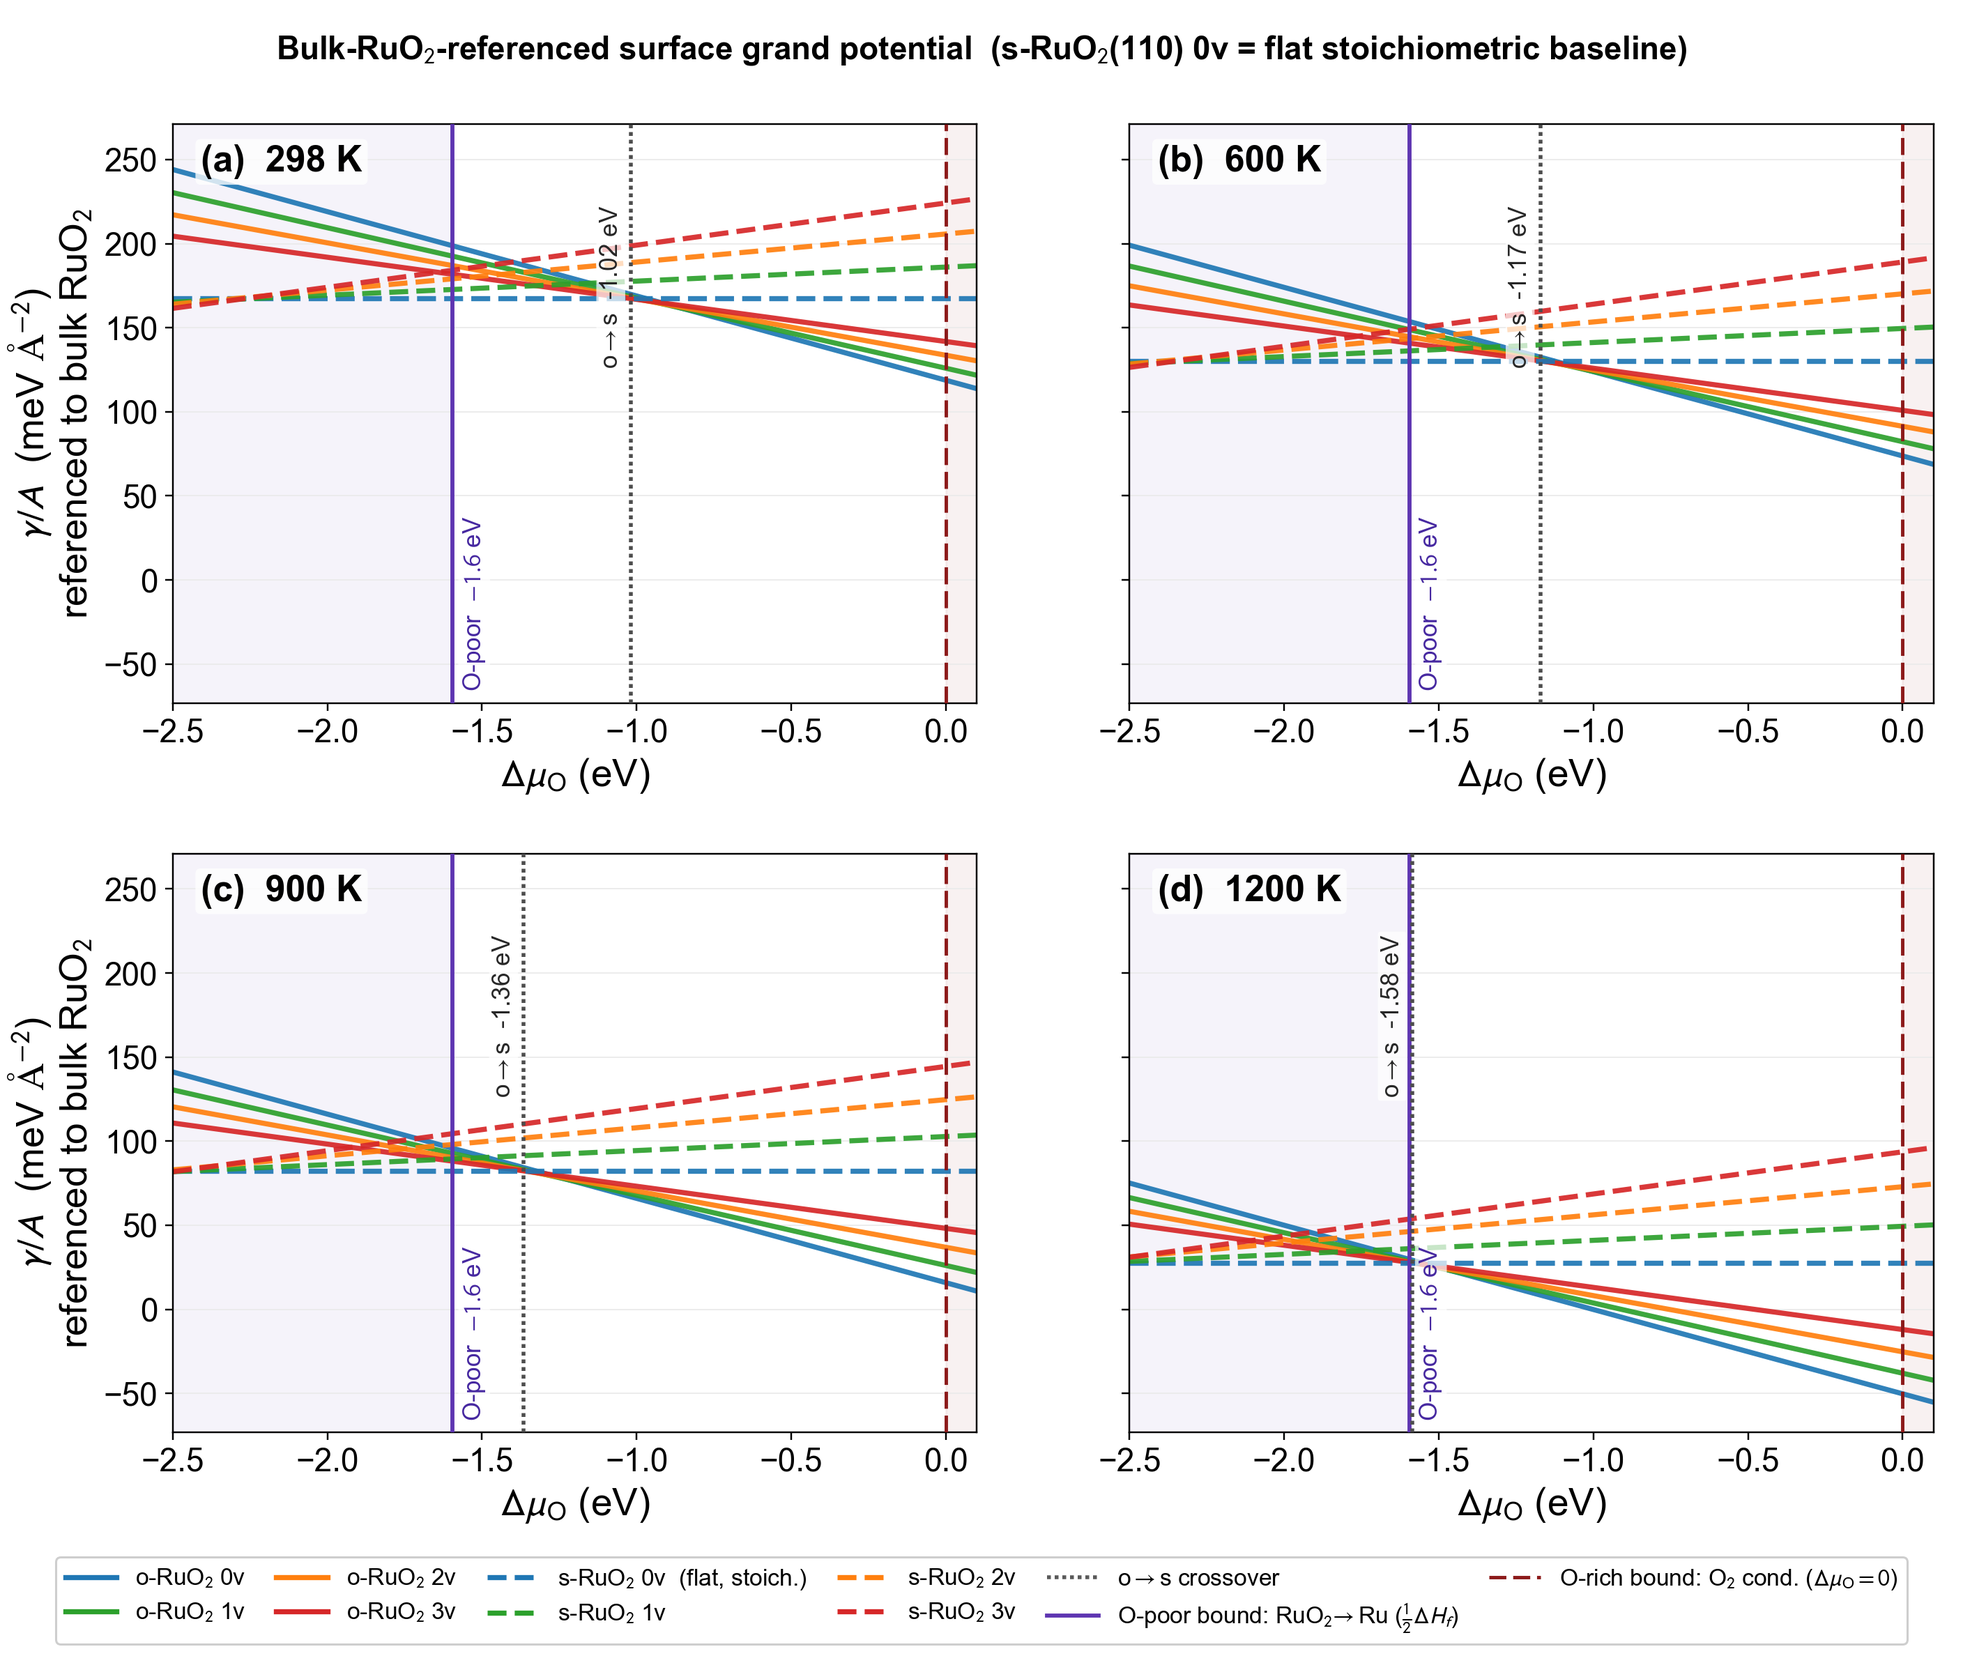
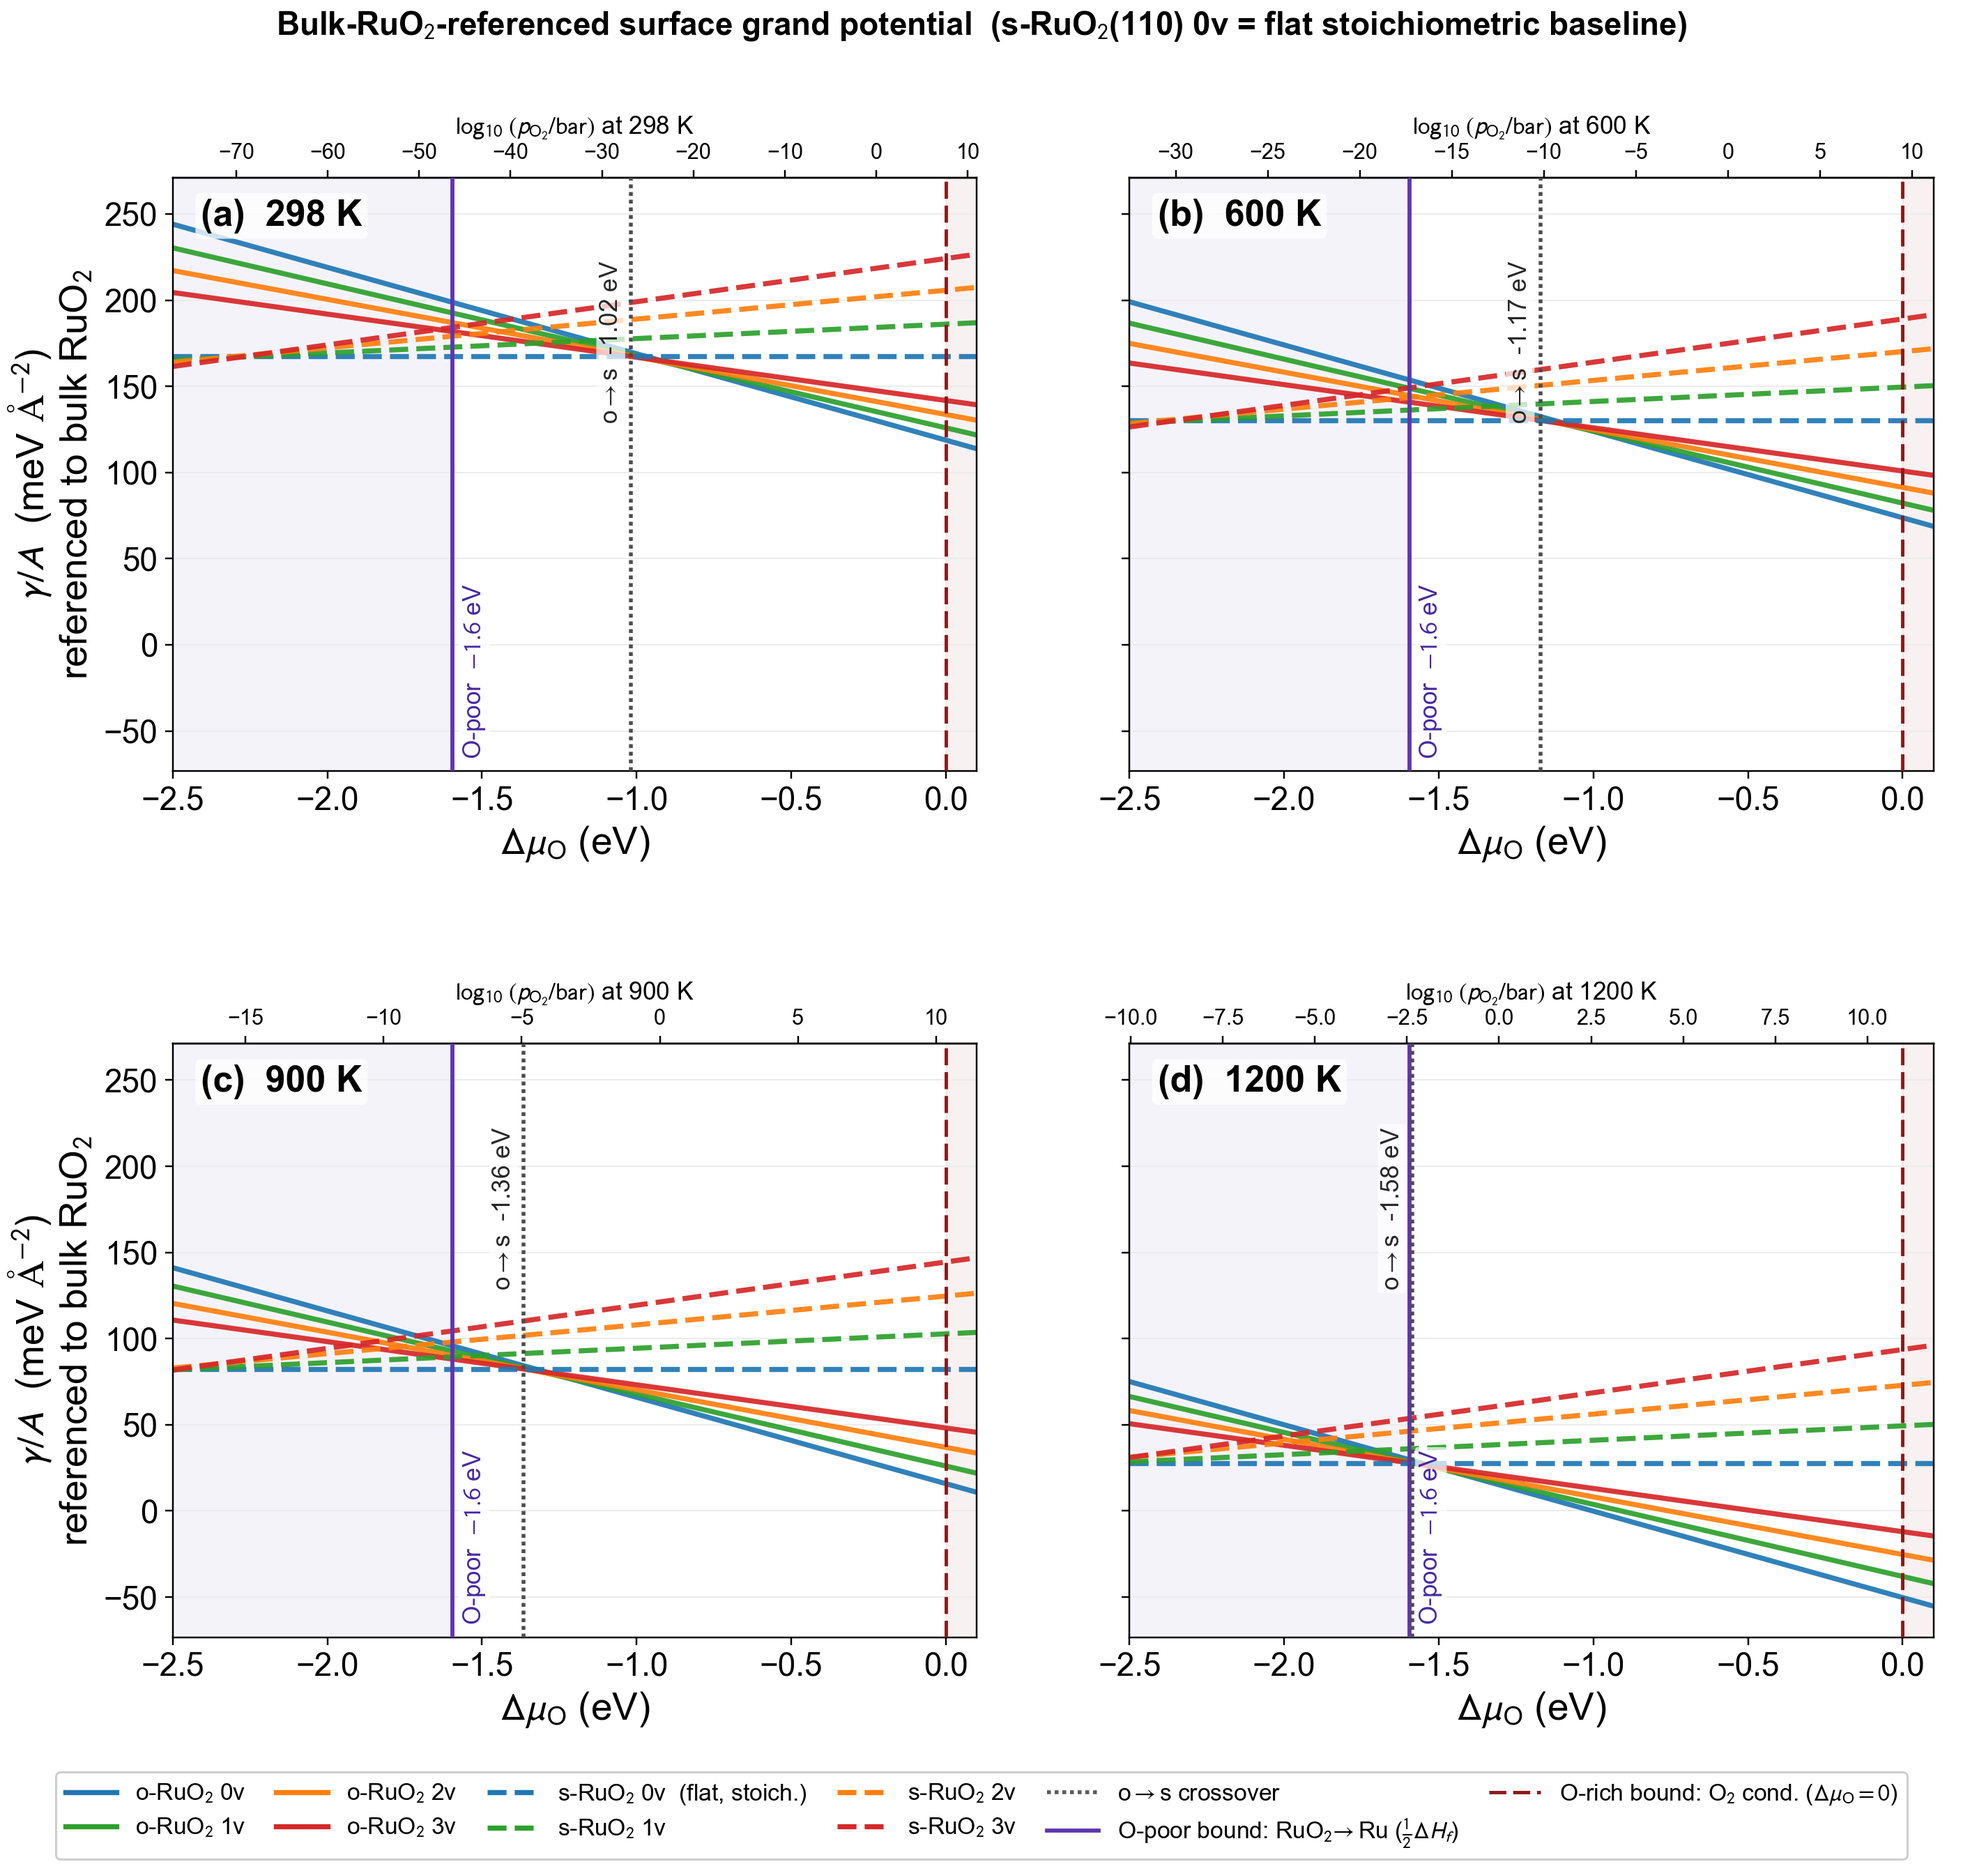
SI: add log10(pO2) top axis to bulk-referenced figure + caption note

diff --git a/computational_details.tex b/computational_details.tex
@@ -240,7 +240,9 @@ temperature.
   inaccessible: the oxygen-rich limit at $\Delta\mu_{\mathrm O}=0$ (O$_2$
   condensation) and the oxygen-poor limit at
   $\Delta\mu_{\mathrm O}=\tfrac{1}{2}\Delta H_f^{\,\mathrm{RuO_2}}\approx-1.60$~eV
-  (decomposition to metallic Ru, Eq.~\eqref{eq:opoor}). All panels share a
-  common $\gamma$ axis.}
+  (decomposition to metallic Ru, Eq.~\eqref{eq:opoor}). The upper axis of each
+  panel gives the corresponding oxygen partial pressure,
+  $\log_{10}\!\left(p_{\mathrm{O_2}}/\mathrm{bar}\right)$, at that temperature
+  (Eq.~\eqref{eq:pO2}). All panels share a common $\gamma$ axis.}
   \label{fig:bulkref}
 \end{figure*}
